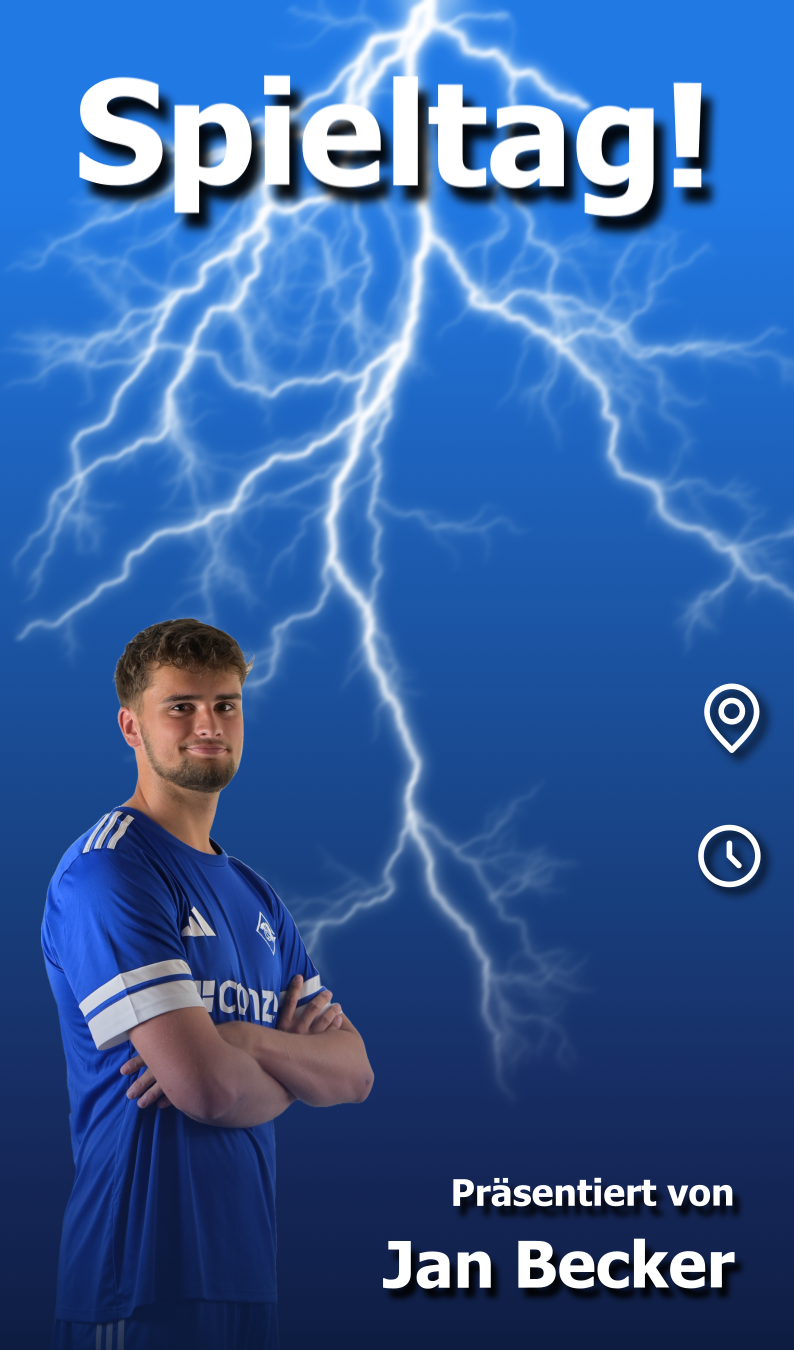
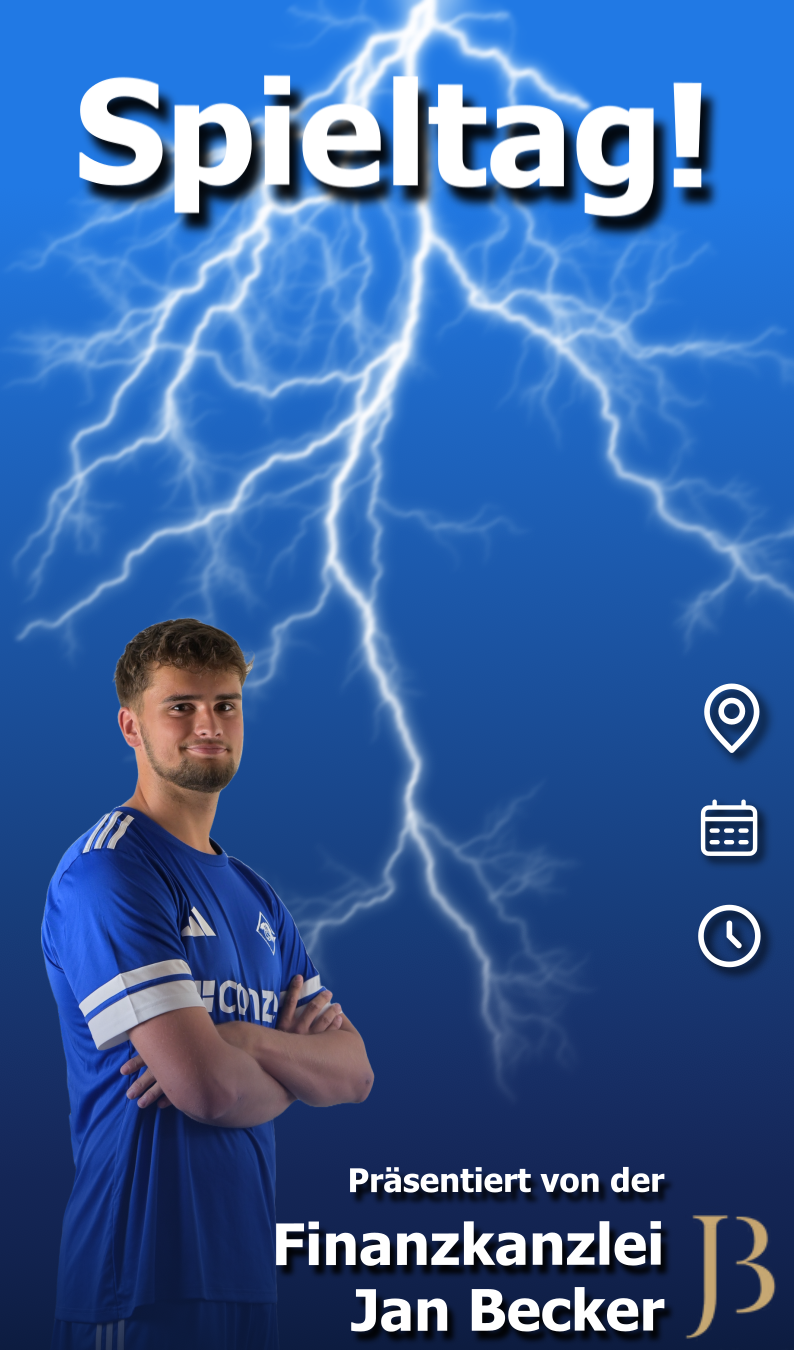
spieltag

Changed region(s): [[0.3325, 0.8711, 0.9975, 0.9956], [0.8766, 0.5911, 0.9673, 0.7467]]

diff --git a/pages/spielankündigung.html b/pages/spielankündigung.html
@@ -20,16 +20,30 @@
       width: auto;
       height: calc(100vh - 400px);
     }
-    input, button, select {
+    button, select {
       margin-top: 1rem;
 	  border-radius: 8px;
+	  color: white;
+	  background: #517eb8;
+	  border: none;
+      padding: 0.5rem;
+      font-size: 1rem;
+	  margin-right: 8px;
+	  margin-left: 8px;
+	  width: 128px;
+	  filter: drop-shadow(2px 2px 3px black);
+    }
+	input {
+      margin-top: 1rem;
+	  border-radius: 8px;
+	  background: white;
 	  border: 2px solid black;
       padding: 0.5rem;
       font-size: 1rem;
 	  margin-right: 8px;
 	  margin-left: 8px;
 	  width: 128px;
-    }
+	}
 	.stack{
 		display: flex;
 		align-items: center;
@@ -46,6 +60,9 @@
 <body>
 
   <h1>Spielankündigung</h1>
+  
+  <div class="stack">
+	<div class="no-stack">
 	<select name="player" id="player-select">
 	  <option value="ankuendigung/19.png">#19 Luis Nassen</option>
 	  <option value="ankuendigung/16.png">#16 Lars Rademacher</option>
@@ -70,8 +87,15 @@
 	  <option value="ankuendigung/20.png">#20 Pascal Hammer</option>
 	  <option value="ankuendigung/43.png">#43 Jonathan Schwan</option>
 	</select>
-	  <input type="text" id="when" placeholder="Sa, 12:10 Uhr" />
-	  <input type="text" id="where" placeholder="Gebhardshain" />
+  <input type="text" id="when" placeholder="12:10 Uhr" />
+  </div>
+  
+	<div class="no-stack">
+	<input type="text" id="where" placeholder="Gebhardshain" />
+	<input type="text" id="date" placeholder="Sa, 10.10.2025" />
+  
+  </div>
+  </div>
   <div class="stack">
 	<div class="no-stack">
 		<select name="team 1" id="team1-select">
@@ -114,8 +138,8 @@
 	</div>
   </div>
   <br />
-  <button onclick="render()">Vorschau aktualisieren</button>
-  <button onclick="downloadImage()">Bild herunterladen</button>
+  <button onclick="render()">Erstellen</button>
+  <button onclick="downloadImage()">Herunterladen</button>
   <br /><br />
 
   <canvas id="canvas" width="1200" height="2041"></canvas>

diff --git a/pages/spielankündigungscript.js b/pages/spielankündigungscript.js
@@ -9,7 +9,8 @@ function render() {
   const text1 = document.getElementById('team1-text').value || 'SG Gebhardshain';
   const text2 = document.getElementById('team2-text').value || 'SG Gebhardshain';
   const where = document.getElementById('where').value || 'Gebhardshain';
-  const when = document.getElementById('when').value || 'Sa, 12:10 Uhr';
+  const when = document.getElementById('when').value || '12:10 Uhr';
+  const date = document.getElementById('date').value || 'Sa, 10.10.2025';
 
   const imageSource1 = document.getElementById('team1-select').value || 'logos/sgg.png';
   const imageSource2 = document.getElementById('team2-select').value || 'logos/sgg.png';
@@ -57,13 +58,13 @@ function render() {
   
   ctx.font = 'bold 60px Tahoma';
   ctx.textAlign = 'right';
-  ctx.fillText(where, x + 360, 1100);
-  ctx.fillText(when, x + 360, 1300);
+  ctx.fillText(where, x + 420, 1094);
+  ctx.fillText(date, x + 420, 1262);
+  ctx.fillText(when, x + 420, 1422);
   
 }
 
 function downloadImage() {
-  render();
   const link = document.createElement('a');
   link.download = 'ergebnis.jpg';
   link.href = canvas.toDataURL('image/jpg');

diff --git a/pages/torjubel.html b/pages/torjubel.html
@@ -20,16 +20,30 @@
       width: auto;
       height: calc(100vh - 400px);
     }
-    input, button, select {
+    button, select {
       margin-top: 1rem;
 	  border-radius: 8px;
+	  color: white;
+	  background: #517eb8;
+	  border: none;
+      padding: 0.5rem;
+      font-size: 1rem;
+	  margin-right: 8px;
+	  margin-left: 8px;
+	  width: 128px;
+	  filter: drop-shadow(2px 2px 3px black);
+    }
+	input {
+      margin-top: 1rem;
+	  border-radius: 8px;
+	  background: white;
 	  border: 2px solid black;
       padding: 0.5rem;
       font-size: 1rem;
 	  margin-right: 8px;
 	  margin-left: 8px;
 	  width: 128px;
-    }
+	}
 	.stack{
 		display: flex;
 		align-items: center;
@@ -112,8 +126,8 @@
 	</div>
   </div>
   <br />
-  <button onclick="render()">Vorschau aktualisieren</button>
-  <button onclick="downloadImage()">Bild herunterladen</button>
+  <button onclick="render()">Erstellen</button>
+  <button onclick="downloadImage()">Herunterladen</button>
   <br /><br />
 
   <canvas id="canvas" width="1200" height="2041"></canvas>

diff --git a/pages/endergebnis.html b/pages/endergebnis.html
@@ -20,16 +20,30 @@
       width: auto;
       height: calc(100vh - 400px);
     }
-    input, button, select {
+    button, select {
       margin-top: 1rem;
 	  border-radius: 8px;
+	  color: white;
+	  background: #517eb8;
+	  border: none;
+      padding: 0.5rem;
+      font-size: 1rem;
+	  margin-right: 8px;
+	  margin-left: 8px;
+	  width: 128px;
+	  filter: drop-shadow(2px 2px 3px black);
+    }
+	input {
+      margin-top: 1rem;
+	  border-radius: 8px;
+	  background: white;
 	  border: 2px solid black;
       padding: 0.5rem;
       font-size: 1rem;
 	  margin-right: 8px;
 	  margin-left: 8px;
 	  width: 128px;
-    }
+	}
 	.stack{
 		display: flex;
 		align-items: center;
@@ -91,8 +105,8 @@
 	</div>
   </div>
   <br />
-  <button onclick="render()">Vorschau aktualisieren</button>
-  <button onclick="downloadImage()">Bild herunterladen</button>
+  <button onclick="render()">Erstellen</button>
+  <button onclick="downloadImage()">Herunterladen</button>
   <br /><br />
 
   <canvas id="canvas" width="1200" height="2041"></canvas>

diff --git a/pages/sgg.html b/pages/sgg.html
@@ -12,10 +12,13 @@
 		text-align: center;
 		padding: 2rem;
     }
+	a{
+		color: #517eb8;
+	}
   </style>
 </head>
 <body>
-
+<img src="logos/sgg.png" style="width: 100%; height: 100px; object-fit: contain">
   <h1>SGG Tools</h1>
   <h3><a href="torjubel.html">Torjubel</a></h3>
   <h3><a href="spielankündigung.html">Spielankündigung</a></h3>

diff --git a/pages/endergebnisscript.js b/pages/endergebnisscript.js
@@ -63,7 +63,6 @@ function render() {
 }
 
 function downloadImage() {
-  render();
   const link = document.createElement('a');
   link.download = 'ergebnis.jpg';
   link.href = canvas.toDataURL('image/jpg');

diff --git a/pages/torjubelscript.js b/pages/torjubelscript.js
@@ -63,7 +63,6 @@ function render() {
 }
 
 function downloadImage() {
-  render();
   const link = document.createElement('a');
   link.download = 'ergebnis.jpg';
   link.href = canvas.toDataURL('image/jpg');
